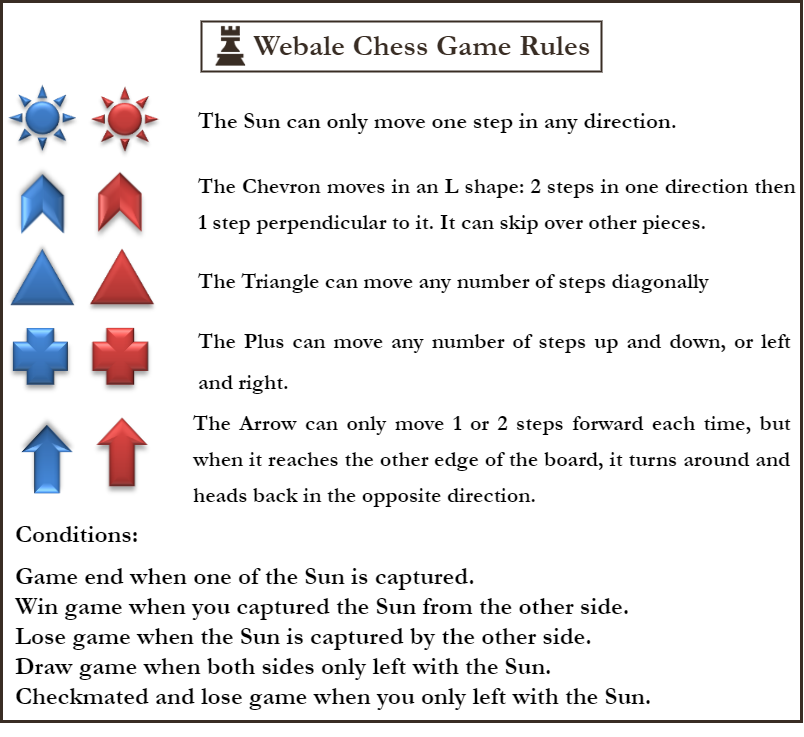
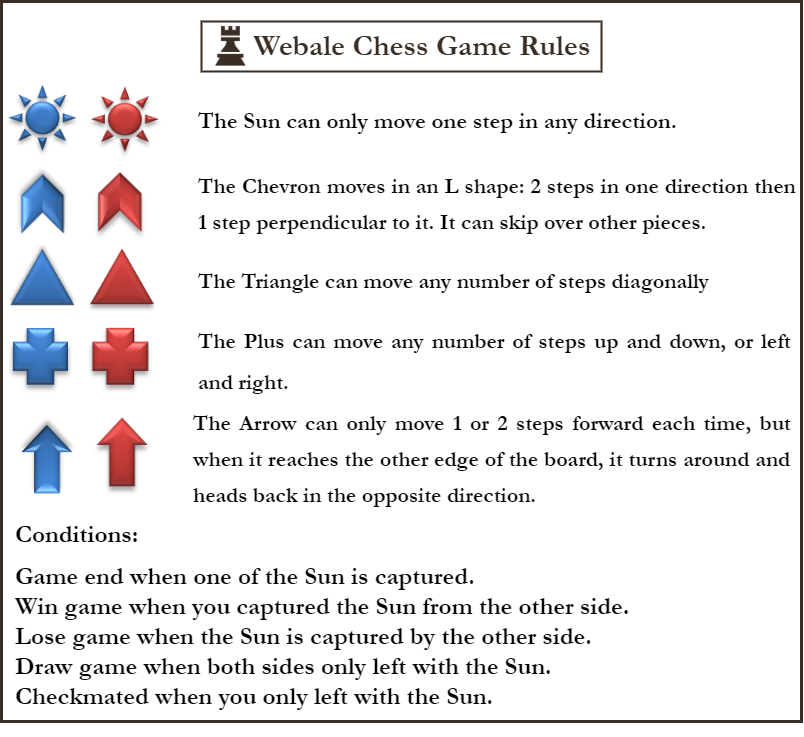
change instructions, change checkmate(only show once), delete our assignment folder

Changed region(s): [[0.1866, 0.9362, 0.8085, 0.9674]]

diff --git a/webale/GameController.java b/webale/GameController.java
@@ -19,6 +19,7 @@ public class GameController {
     BoardFrame boardFrame = null;
     HomeFrame homeFrame = null;
     boolean isFirstGame = true;
+    boolean isCheckmated = false;
 
     public GameController(HomeFrame homeFrame, BoardFrame boardFrame) {
         this.homeFrame = homeFrame;
@@ -223,17 +224,20 @@ public class GameController {
                     boardFrame.getGameBoard().resetCheckDraw();
                 }
                 
-                // check checkmate
-                boardFrame.getGameBoard().checkmate(); // only left 1 blue
-                // piece (Sun)
-                if (boardFrame.getGameBoard().getRemainingBluePieceSize() == 1) {
-                    checkmateBlue();
-                } // red win } // only left 1 red piece (Sun) //
-                else if (boardFrame.getGameBoard().getRemainingRedPieceSize() == 1) { //
-                    checkmateRed(); // blue win //
+                // check checkmate if no player is checkmated before
+                if (isCheckmated == false){
+                    boardFrame.getGameBoard().checkmate(); // only left 1 blue
+                    // piece (Sun)
+                    if (boardFrame.getGameBoard().getRemainingBluePieceSize() == 1) {
+                        isCheckmated = true;
+                        checkmateBlue();
+                    } // red win // only left 1 red piece (Sun) //
+                    else if (boardFrame.getGameBoard().getRemainingRedPieceSize() == 1) { //
+                        isCheckmated = true;
+                        checkmateRed(); // blue win //
+                    }
+                    boardFrame.getGameBoard().resetCheckmate();
                 }
-                boardFrame.getGameBoard().resetCheckmate();
-
                 // if successfully moved return true, if not return false
                 return true;
             } else {
@@ -273,15 +277,11 @@ public class GameController {
     private void checkmateRed() {
         String playerWon = "BlueCheckmateRed";
         new GameOver(boardFrame, playerWon);
-        homeFrame.getContinueButton().setEnabled(false);
-        boardFrame.setVisible(false);
     }
 
     private void checkmateBlue() {
         String playerWon = "RedCheckmateBlue";
         new GameOver(boardFrame, playerWon);
-        homeFrame.getContinueButton().setEnabled(false);
-        boardFrame.setVisible(false);
     }
 
     private void writeSaveFile(File file) {

diff --git a/webale/GameBoard.java b/webale/GameBoard.java
@@ -24,9 +24,8 @@ public class GameBoard extends JPanel {
         int height = 600;
         // initPiece();
 
-        // -------------------------Assigning pieces to the
-        // coordinate----------------------//
-
+        // ------------------------Assigning pieces to the coordinate----------------------//
+        // -------------------------The initial pieces on gameBoard------------------------//
         try {
             coordinate[0][0] = new Coordinate(0, 0, (new Plus(false, "./images/blue_plus.png")));
             coordinate[0][1] = new Coordinate(1, 0, new Triangle(false, "./images/blue_triangle.png"));
@@ -100,12 +99,13 @@ public class GameBoard extends JPanel {
                 coordinate[y][x] = new Coordinate(x, y, null);
             }
         }
-
+        
+        // setting the tile with light beige and ligh brown colors
         for (int y = 0; y < 8; y++) {
             for (int x = 0; x < 7; x++) {
                 tileArray[y][x] = new ChessTile(x, y);
                 if (((y % 2 == 0) && (x % 2 == 0)) || ((y % 2 == 1) && (x % 2 == 1))) {
-                    tileArray[y][x].setBackground(new Color(242, 227, 211));
+                    tileArray[y][x].setBackground(new Color(242, 227, 211));            
                 } else
                     tileArray[y][x].setBackground(new Color(181, 153, 132));
             }

diff --git a/webale/GameOver.java b/webale/GameOver.java
@@ -13,10 +13,10 @@ public class GameOver extends JOptionPane {
 		
 		if (playerWon == "Draw") {
 			showMessageDialog(jDialog, "Draw!");
-		}else if (playerWon == "RedCheckmateBlue") {
-			showMessageDialog(jDialog, "Red player has won the game! Blue Sun is checkmated.");
+		} else if (playerWon == "RedCheckmateBlue") {
+			showMessageDialog(jDialog, "Warning! Blue Sun is checkmated.\nPlayer Blue, you only left with one chess piece, the Sun.");
 		} else if (playerWon == "BlueCheckmateRed") {
-			showMessageDialog(jDialog, "Blue player has won the game! Red Sun is checkmated.");
+			showMessageDialog(jDialog, "Warning! Red Sun is checkmated.\nPlayer Red, you only left with one chess piece, the Sun.");
 		} else {
 			showMessageDialog(jDialog, playerWon + " has won the game!");
 		}
